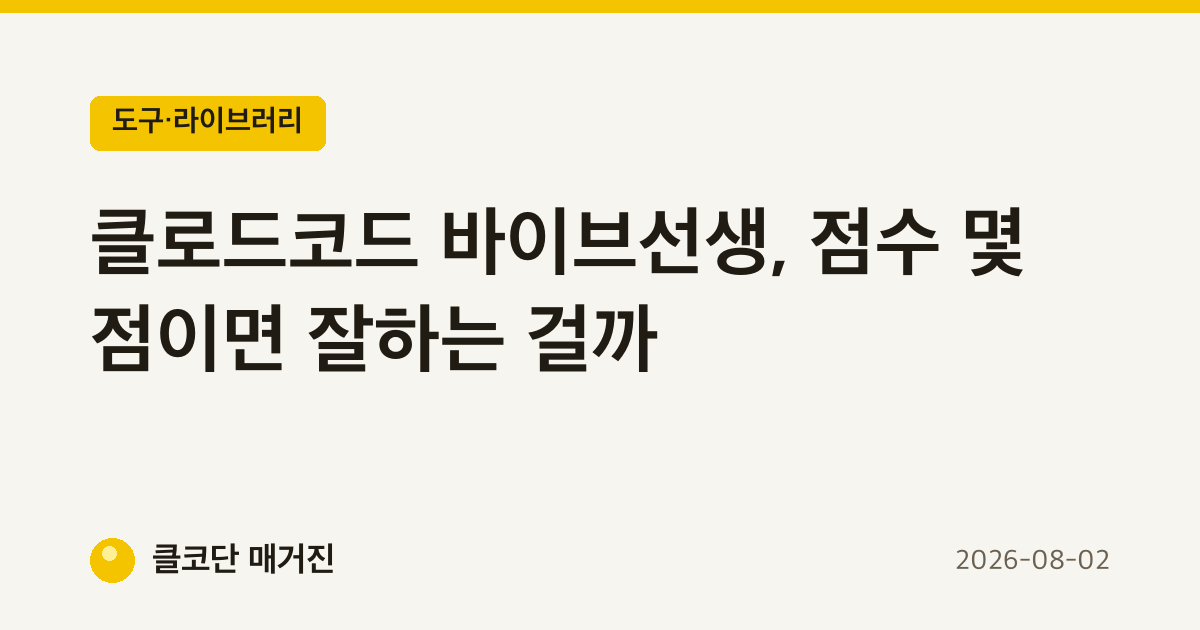
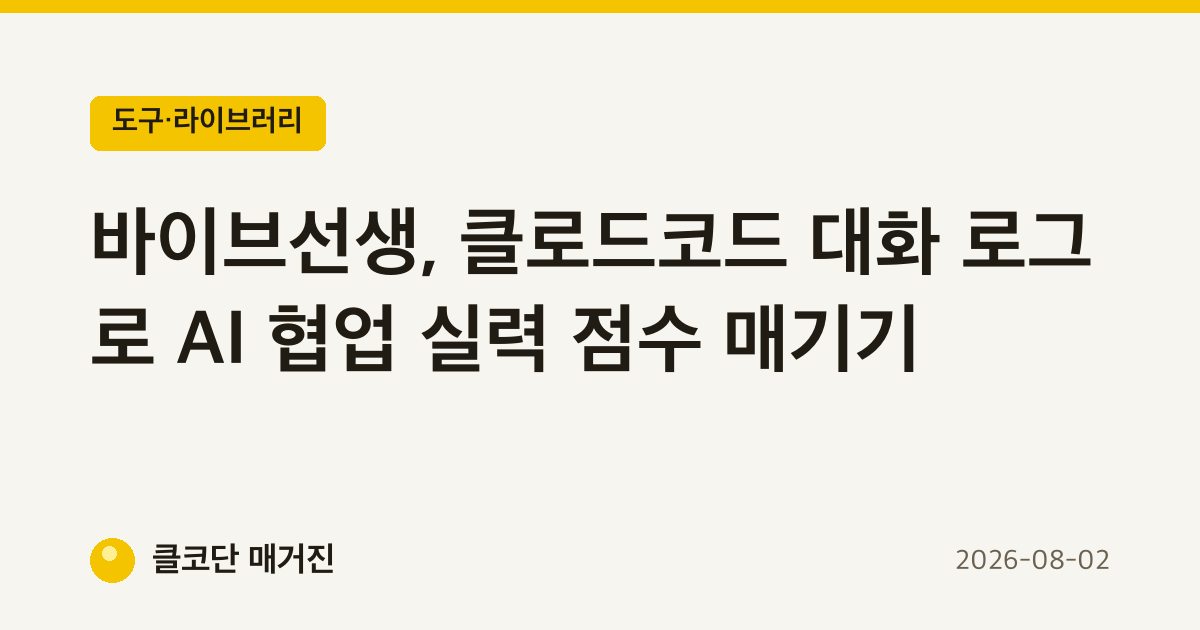
매거진 재정의 — 리서치 기반 완전 기사 + humanize + 히어로 이미지(첫 기사)

Changed region(s): [[0.0617, 0.4825, 0.7708, 0.6032], [0.0617, 0.3317, 0.6475, 0.4524], [0.6783, 0.3317, 0.925, 0.4524]]

diff --git a/mag/tools/vibe-sunsang-claude-code-score.html b/mag/tools/vibe-sunsang-claude-code-score.html
@@ -3,17 +3,17 @@
 <head>
 <meta charset="utf-8">
 <meta name="viewport" content="width=device-width, initial-scale=1">
-<title>클로드코드 바이브선생, 점수 몇 점이면 잘하는 걸까 — 클코단 매거진</title>
+<title>바이브선생, 클로드코드 대화 로그로 AI 협업 실력 점수 매기기 — 클코단 매거진</title>
 <link rel="icon" type="image/svg+xml" href="/favicon.svg"><link rel="icon" type="image/png" sizes="32x32" href="/favicon-32.png"><link rel="apple-touch-icon" href="/apple-touch-icon.png">
 <script async src="https://www.googletagmanager.com/gtag/js?id=G-STD1JBGG3R"></script><script>window.dataLayer=window.dataLayer||[];function gtag(){dataLayer.push(arguments)}gtag("js",new Date());gtag("config","G-STD1JBGG3R");</script>
-<meta name="description" content="클로드코드 대화 세션을 분석해 점수를 매기는 자가진단 도구 &#x27;바이브선생&#x27;. 평균 점수와 평가 항목, 실행 방법과 커뮤니티에서 나온 갈린 의견을 정리했다.">
+<meta name="description" content="클로드코드 세션 로그를 6축(DECOMP·VERIFY·ORCH·FAIL·CTX·META)·7레벨 체계로 채점하는 오픈소스 도구 바이브선생의 설치법과 평가 기준, 점수보다 실무 활용도가 중요하다는 커뮤니티 반응을 정리했다.">
 <link rel="canonical" href="https://chat.axwith.com/mag/tools/vibe-sunsang-claude-code-score.html">
-<meta property="og:title" content="클로드코드 바이브선생, 점수 몇 점이면 잘하는 걸까">
-<meta property="og:description" content="클로드코드 대화 세션을 분석해 점수를 매기는 자가진단 도구 &#x27;바이브선생&#x27;. 평균 점수와 평가 항목, 실행 방법과 커뮤니티에서 나온 갈린 의견을 정리했다.">
+<meta property="og:title" content="바이브선생, 클로드코드 대화 로그로 AI 협업 실력 점수 매기기">
+<meta property="og:description" content="클로드코드 세션 로그를 6축(DECOMP·VERIFY·ORCH·FAIL·CTX·META)·7레벨 체계로 채점하는 오픈소스 도구 바이브선생의 설치법과 평가 기준, 점수보다 실무 활용도가 중요하다는 커뮤니티 반응을 정리했다.">
 <meta property="og:type" content="article">
 <meta property="og:url" content="https://chat.axwith.com/mag/tools/vibe-sunsang-claude-code-score.html">
-<script type="application/ld+json">{"@context": "https://schema.org", "@type": "Article", "headline": "클로드코드 바이브선생, 점수 몇 점이면 잘하는 걸까", "description": "클로드코드 대화 세션을 분석해 점수를 매기는 자가진단 도구 '바이브선생'. 평균 점수와 평가 항목, 실행 방법과 커뮤니티에서 나온 갈린 의견을 정리했다.", "datePublished": "2026-08-02", "dateModified": "2026-08-02", "author": {"@type": "Organization", "name": "클코단 매거진"}, "publisher": {"@type": "Organization", "name": "클코단 매거진"}, "mainEntityOfPage": {"@type": "WebPage", "@id": "https://chat.axwith.com/mag/tools/vibe-sunsang-claude-code-score.html"}, "articleSection": "도구·라이브러리", "keywords": "클로드코드, 바이브선생, gptaku, 세션평가, 바이브코딩, 프롬프트습관"}</script>
-<script type="application/ld+json">{"@context": "https://schema.org", "@type": "FAQPage", "mainEntity": [{"@type": "Question", "name": "바이브선생이 정확히 뭔가요?", "acceptedAnswer": {"@type": "Answer", "text": "fivetaku가 만든 오픈소스 자가진단 도구이자 gptaku 플러그인의 세션 평가 기능이다. 클로드코드와 나눈 대화 세션을 분석해 시작·평가·멘토링·성장 네 항목으로 점수를 매긴다."}}, {"@type": "Question", "name": "평균 점수는 몇 점인가요?", "acceptedAnswer": {"@type": "Answer", "text": "커뮤니티에서 언급된 평균은 6.3점이며, 잘하는 사람은 7점대가 나온다는 이야기가 있었다. 다만 점수보다 실무 활용도가 더 중요하다는 의견도 함께 나왔다."}}, {"@type": "Question", "name": "GPT 대화 세션도 분석되나요?", "acceptedAnswer": {"@type": "Answer", "text": "아니다. 지금까지는 클로드코드 세션만 가져와 분석하며, GPT 대화 세션은 가져오지 못한다는 설명이 있었다."}}, {"@type": "Question", "name": "바이브선생은 어떻게 실행하나요?", "acceptedAnswer": {"@type": "Answer", "text": "터미널에서 \"바이브선생 실행해줘\"라고 말하면 알아서 설치·실행됐다는 공유가 있었다."}}]}</script>
+<script type="application/ld+json">{"@context": "https://schema.org", "@type": "Article", "headline": "바이브선생, 클로드코드 대화 로그로 AI 협업 실력 점수 매기기", "description": "클로드코드 세션 로그를 6축(DECOMP·VERIFY·ORCH·FAIL·CTX·META)·7레벨 체계로 채점하는 오픈소스 도구 바이브선생의 설치법과 평가 기준, 점수보다 실무 활용도가 중요하다는 커뮤니티 반응을 정리했다.", "datePublished": "2026-08-02", "dateModified": "2026-08-02", "author": {"@type": "Organization", "name": "클코단 매거진"}, "publisher": {"@type": "Organization", "name": "클코단 매거진"}, "mainEntityOfPage": {"@type": "WebPage", "@id": "https://chat.axwith.com/mag/tools/vibe-sunsang-claude-code-score.html"}, "articleSection": "도구·라이브러리", "keywords": "바이브선생, 클로드코드, vibe coding, Claude Code 플러그인, AI 협업 평가, 가재코드"}</script>
+<script type="application/ld+json">{"@context": "https://schema.org", "@type": "FAQPage", "mainEntity": [{"@type": "Question", "name": "바이브선생은 어떻게 설치하나요?", "acceptedAnswer": {"@type": "Answer", "text": "클로드코드에서 `/plugin marketplace add https://github.com/fivetaku/gptaku_plugins.git`으로 마켓플레이스를 추가한 뒤 `/plugin install vibe-sunsang`으로 설치한다. 별도 API 키 없이 기존 클로드코드 대화 로그만으로 동작한다."}}, {"@type": "Question", "name": "바이브선생 평가 항목과 점수 체계는 어떻게 구성되나요?", "acceptedAnswer": {"@type": "Answer", "text": "DECOMP(작업 분해)·VERIFY(검증)·ORCH(오케스트레이션)·FAIL(실패 복구)·CTX(맥락 관리)·META(메타인지) 6축을 종합해 L1.0부터 L7.0까지 0.5 단위 레벨을 매긴다. 상위 레벨은 검증 비율, 도구 다양성 등 별도 게이트 조건을 충족해야 올라간다."}}, {"@type": "Question", "name": "바이브선생은 GPT 등 다른 AI 대화 세션도 분석할 수 있나요?", "acceptedAnswer": {"@type": "Answer", "text": "아니다. 클로드코드가 로컬에 남기는 JSONL 세션 로그만 분석 대상이며, GPT 등 다른 서비스의 대화 세션은 가져올 수 없다."}}]}</script>
 <style>:root{--ground:#F7F5EF;--surface:#FFFFFF;--line:#E3DECF;--ink:#201C13;--muted:#6B6152;--accent:#F5C400;--on-accent:#201C13;--accent-deep:#7A6200;--shadow:0 1px 2px rgba(32,28,19,.05),0 6px 18px rgba(32,28,19,.06);--chip-bg:#F2EBD4;}
 @media (prefers-color-scheme: dark){:root{--ground:#17140F;--surface:#211C13;--line:#37301F;--ink:#EFE8D8;--muted:#ADA189;--accent:#FBDA30;--on-accent:#201C13;--accent-deep:#FBDA30;--shadow:0 1px 2px rgba(0,0,0,.5),0 8px 22px rgba(0,0,0,.35);--chip-bg:#2C2617;}}
 :root[data-theme="dark"]{--ground:#17140F;--surface:#211C13;--line:#37301F;--ink:#EFE8D8;--muted:#ADA189;--accent:#FBDA30;--on-accent:#201C13;--accent-deep:#FBDA30;--shadow:0 1px 2px rgba(0,0,0,.5),0 8px 22px rgba(0,0,0,.35);--chip-bg:#2C2617;}
@@ -136,6 +136,7 @@ font-size:15px;font-weight:700;box-shadow:var(--shadow)}
 .wkbanner span{color:var(--accent-deep)}
 
 .artbody{margin-top:22px}
+.artHero{width:100%;border-radius:12px;margin:16px 0 4px;display:block;border:1px solid var(--line)}
 .artbody h2{font-size:19px;font-weight:800;letter-spacing:-.01em;margin:28px 0 10px}
 .artbody p{margin:13px 0;line-height:1.78}
 .artbody ul{margin:13px 0 13px 18px}.artbody li{margin:6px 0;line-height:1.7}
@@ -145,20 +146,28 @@ font-size:15px;font-weight:700;box-shadow:var(--shadow)}
 <body>
 <div class="wrap">
 <nav><a href="../">&larr; 클코단 매거진</a></nav>
+<img class="artHero" src="https://chat.axwith.com/mag/hero/vibe-sunsang-claude-code-score.png" alt="바이브선생, 클로드코드 대화 로그로 AI 협업 실력 점수 매기기" loading="eager">
 <header>
   <div class="eyebrow">도구·라이브러리</div>
-  <h1>클로드코드 바이브선생, 점수 몇 점이면 잘하는 걸까</h1>
-  <p class="sub">gptaku 플러그인의 세션 자가진단 기능 &#x27;바이브선생&#x27;, 평균 점수와 실제로 봐야 할 지표를 정리했다</p>
+  <h1>바이브선생, 클로드코드 대화 로그로 AI 협업 실력 점수 매기기</h1>
+  <p class="sub">클로드코드 세션 로그를 6축·7레벨로 채점하는 오픈소스 멘토링 도구, 점수보다 실무 활용도가 관건이라는 의견이 방 안팎에서 나왔다</p>
   <div class="meta"><span>2026-08-02</span><span>논의 <b>2</b>회 정리</span></div>
 </header>
-<div class="artbody"><h2>문제: 내 프롬프트, 잘 쓰고 있는 걸까</h2>
-<p>클로드코드로 매일 작업은 하지만 스스로 습관을 점검할 방법은 마땅치 않다. 오픈채팅방에서는 gptaku 플러그인을 쓴 뒤 에이전트 결과물이 탄탄해지고 자가진단 점수(일명 &#x27;바선생&#x27; 점수)가 올랐다는 후기가 나오면서, 이 점수를 어떻게 봐야 하는지 논의가 이어졌다.</p>
-<h2>바이브선생은 무엇을 보나</h2>
-<p>바이브선생은 fivetaku가 만든 오픈소스 자가진단 도구로, gptaku 플러그인의 세션 평가 기능이다. 지금까지 클로드코드와 나눈 대화 세션을 가져와 시작·평가·멘토링·성장 네 항목으로 주 단위 점검을 해준다. 다만 GPT 대화 세션은 가져오지 못하고 클로드코드 세션만 분석 대상이라는 설명이 있었다. 터미널에 &quot;바이브선생 실행해줘&quot;라고만 말해도 알아서 설치·실행된다는 공유도 있었다.</p>
-<h2>몇 점이면 잘하는 걸까 — 갈린 의견</h2>
-<p>평균은 6.3점, 잘하는 사람은 7점대가 나온다는 언급이 있었지만, 점수가 높다고 실제로 잘 쓰는 건 아니라는 의견도 나왔다. 결국 중요한 건 점수 자체보다 실무에 얼마나 써먹는지, 그리고 꾸준히 실습하는 태도라는 조언이 이어졌다. 한 참가자는 클로드·코덱스·가재코드 세션 로그를 월별로 분석해 안티패턴과 프롬프트 글자수, 연속 작업시간 등을 직접 체크하는 자체 파일까지 만들어 공유하기도 했다.</p></div>
-<div class="chips"><span class="chip">클로드코드</span><span class="chip">바이브선생</span><span class="chip">gptaku</span><span class="chip">세션평가</span><span class="chip">바이브코딩</span><span class="chip">프롬프트습관</span></div>
-<h2 class="secttl">자주 묻는 질문</h2><div class="details"><article class="dcard"><div class="t">Q</div><h2>바이브선생이 정확히 뭔가요?</h2><p class="sum">fivetaku가 만든 오픈소스 자가진단 도구이자 gptaku 플러그인의 세션 평가 기능이다. 클로드코드와 나눈 대화 세션을 분석해 시작·평가·멘토링·성장 네 항목으로 점수를 매긴다.</p></article><article class="dcard"><div class="t">Q</div><h2>평균 점수는 몇 점인가요?</h2><p class="sum">커뮤니티에서 언급된 평균은 6.3점이며, 잘하는 사람은 7점대가 나온다는 이야기가 있었다. 다만 점수보다 실무 활용도가 더 중요하다는 의견도 함께 나왔다.</p></article><article class="dcard"><div class="t">Q</div><h2>GPT 대화 세션도 분석되나요?</h2><p class="sum">아니다. 지금까지는 클로드코드 세션만 가져와 분석하며, GPT 대화 세션은 가져오지 못한다는 설명이 있었다.</p></article><article class="dcard"><div class="t">Q</div><h2>바이브선생은 어떻게 실행하나요?</h2><p class="sum">터미널에서 &quot;바이브선생 실행해줘&quot;라고 말하면 알아서 설치·실행됐다는 공유가 있었다.</p></article></div>
+<div class="artbody"><p>클로드코드로 하루 몇 시간씩 대화하면서도 &quot;내가 잘 쓰고 있는 건가&quot;라는 질문에 답하기는 쉽지 않다. 최근 클코단 오픈채팅방에서는 자신의 클로드코드 사용 습관을 점수로 되돌려주는 오픈소스 도구 &#x27;바이브선생&#x27;이 화제였다. gptaku 플러그인을 쓰고 나서 점수가 올랐다는 후기부터 &quot;6.3점이면 잘하는 건가&quot;라는 질문까지 이어졌는데, 점수 자체보다 그 점수가 실제 업무 역량과 어떻게 연결되는지가 더 중요한 논쟁거리였다.</p>
+<h2>바이브선생은 무엇을 하는 도구인가</h2>
+<p>바이브선생(vibe-sunsang)은 fivetaku가 만들어 GitHub에 공개한 오픈소스 프로젝트로, 클로드코드가 로컬에 남기는 JSONL 세션 로그를 읽어 사용자의 AI 협업 습관을 자동으로 분석해주는 멘토링 에이전트다. 별도 API 키나 외부 서버 없이 기존 클로드코드 대화 기록만으로 동작하는 것이 특징이다. 설치는 클로드코드의 플러그인 마켓플레이스 기능을 통해 이뤄진다. `/plugin marketplace add https://github.com/fivetaku/gptaku_plugins.git`로 fivetaku가 운영하는 gptaku_plugins 마켓플레이스를 추가한 뒤 `/plugin install vibe-sunsang`으로 설치하면 된다. 방 논의에서 한 참가자가 터미널에 &quot;바이브선생 실행해줘&quot;라고만 말했더니 알아서 설치와 실행까지 이어졌다고 공유한 것도 이 구조 덕분이다. 클로드코드 플러그인은 슬래시 명령, 서브에이전트, MCP 서버, 훅을 하나로 묶어 배포하는 기능으로 2025년 10월 베타로 처음 공개됐고 2026년 5월에는 앤스로픽이 공식 플러그인 디렉터리까지 열면서 생태계가 빠르게 커지고 있다. gptaku_plugins는 이 공식 마켓플레이스와는 별개로 운영되는 커뮤니티 마켓플레이스로, 바이브선생 외에도 검색 우회 도구 insane-search, 디자인 시스템 추출기 insane-design 등을 함께 배포한다.</p>
+<h2>6축 평가와 레벨, 게이트 조건</h2>
+<p>바이브선생의 핵심은 대화 로그를 여섯 개 축으로 나눠 채점하는 방식이다. 복잡한 요청을 AI가 처리할 수 있는 단위로 쪼개는 능력(DECOMP), AI 출력물을 비판적으로 검증하는 습관(VERIFY), 여러 도구·에이전트·워크플로우를 엮어 쓰는 오케스트레이션(ORCH), 오류가 났을 때 원인을 진단하고 대안을 찾는 실패 복구(FAIL), 배경·제약·목표를 AI에 충분히 전달하는 맥락 관리(CTX), 그리고 스스로의 AI 사용 패턴을 인식하고 전략을 조정하는 메타인지(META)다. 이 여섯 축을 종합해 L1.0부터 L7.0까지 0.5 단위로 레벨을 매기는데, 상위 레벨로 올라가려면 단순히 점수 평균을 넘기는 게 아니라 정해진 게이트 조건을 충족해야 한다. 예컨대 L4로 가려면 검증 비율이 0.15를 넘고 수정 비율도 0.05를 넘어야 하고 L5는 사용 도구의 다양성이 8종을 넘어야 하며 L6는 다중 에이전트 협업 경험이, L7은 여기에 더해 외부 기여 이력까지 요구한다. 평가는 사용자가 주로 어떤 유형의 작업을 하는지에 따라 가중치도 달리 준다. 빌더형은 DECOMP·VERIFY를, 디자이너형은 CTX·ORCH를 더 비중 있게 본다. 권장 루틴은 매주 금요일 15분씩 로그를 변환해 멘토링을 받고 한 달에 한 번 30분을 들여 전체 성장 리포트를 뽑아 이전 달과 비교하는 방식이다.</p>
+<h2>방 안 반응: 점수보다 실무 활용도</h2>
+<p>방 논의에서 가장 먼저 나온 것은 실사용 후기였다. gptaku 플러그인을 쓰고 나서 에이전트 결과물이 더 탄탄해졌고 바이브선생 점수도 올랐다는 공유였다. 자연스럽게 &quot;평균이 얼마나 되느냐&quot;, &quot;6점대면 잘하는 편이냐&quot;는 질문이 이어졌고 상세 재평가를 요청했더니 6점대가 나왔다는 공유도 있었다. 이 지점에서 나온 의견은 점수가 잘 나온다고 해서 실제로 업무에 AI를 잘 활용하고 있다는 뜻은 아니라는 것이었다. 결국 중요한 건 채점표의 숫자가 아니라 그 결과를 실무에 얼마나 써먹을 수 있는지라는 지적이 많았다. 평가 항목을 시작·평가·멘토링·성장 네 단계로 요약하고 주 단위로 점검한다고 정리한 참가자도 있었고 점수보다 꾸준히 실습하며 스레드에서 나온 조언을 따라 해보는 태도가 더 중요하다는 의견도 나왔다. 다만 클로드코드 세션만 분석 대상이 되고 GPT 등 다른 서비스의 대화 세션은 가져올 수 없다는 한계도 함께 공유됐다.</p>
+<h2>세션 로그 분석, 혼자만의 시도가 아니다</h2>
+<p>한 참가자는 바이브선생과 별개로 클로드코드·코덱스·가재코드(GJC) 세션 로그를 월별로 직접 분석하는 자체 파일을 만들어 안티패턴, 프롬프트 글자수, 연속 작업시간 등을 체크하고 있다고 소개했다. 이는 개인 취미를 넘어 하나의 흐름과 맞닿아 있다. 클로드코드는 대화 내용을 `~/.claude/projects/` 아래 JSONL 형식으로 한 줄씩 이어 붙여 저장하는데, 이 포맷을 읽어 생각 깊이나 Read·Edit 비율, 감정·비용까지 정량화하는 claude-session-analyzer, 로그를 마크다운·HTML로 바꿔주는 claude-code-log, 로그를 브라우저에서 바로 훑어볼 수 있는 claude-code-trace 같은 도구들이 이미 여럿 나와 있다. 세션 로그를 다루는 CLI 도구도 늘었다. 방에서 언급된 가재코드(Gajae Code, GJC)는 bellman.pub이 만든 외부 코딩 에이전트 하니스로, 클로드코드나 코덱스 CLI 옆에서 구조화된 계획과 지속적인 증거 관리, 격리된 작업 트리를 지원하는 도구로 소개돼 있다. 클로드코드·코덱스 CLI·제미나이 CLI에 이어 가재코드까지, 한 사람이 여러 AI 코딩 CLI를 동시에 쓰며 그 흔적을 직접 분석하는 게 특별한 일이 아니게 된 셈이다.</p>
+<h2>바이브코딩의 맥락과 &#x27;AI 리터러시&#x27; 평가</h2>
+<p>바이브선생류 도구가 등장한 배경에는 &#x27;바이브코딩&#x27;이라는 용어 자체의 확산이 있다. 2025년 2월 앤드리 카패시가 &quot;바이브에 완전히 몸을 맡기고 코드가 존재한다는 사실조차 잊는&quot; 새로운 코딩 방식이라고 정의하며 퍼뜨린 말로, 개발자가 직접 문법을 타이핑하는 대신 자연어로 의도를 전달하고 AI가 구현을 맡는 흐름을 가리킨다. 이 개념이 널리 쓰이면서 업계에서는 &#x27;무엇을 만들었는가&#x27;보다 &#x27;어떻게 AI와 협업했는가&#x27;가 개발자 역량을 가르는 기준이라는 시각이 힘을 얻고 있다. 실제로 채용 현장에서도 AI 도구를 얼마나 효과적으로 다루는지, 즉 AI 리터러시를 평가 지표로 삼는 사례가 늘고 있다는 분석이 나온다. 바이브선생이 &quot;무엇을 만들었는가가 아니라 어떻게 만들었는가&quot;를 표방하며 요청 분해·검증·오케스트레이션·메타인지 같은 축을 자동 채점하는 것도 이런 흐름과 맞닿아 있다. 다만 카패시 본인조차 이후 진지한 프로젝트에서는 바이브코딩의 한계를 인정한 바 있어, 점수화된 자가진단 도구 역시 절대적인 실력 지표라기보다 스스로의 습관을 되돌아보는 참고 자료로 받아들이는 편이 합리적이라는 신중론도 함께 짚어볼 만하다.</p>
+<h2>정리</h2>
+<p>바이브선생은 클로드코드 대화 로그만으로 AI 협업 습관을 6축·7레벨 체계로 채점해주는 오픈소스 멘토링 도구로, 방에서는 실제로 점수가 올랐다는 후기와 함께 &quot;숫자보다 실무 활용도가 우선&quot;이라는 신중론이 공존했다. 세션 로그를 분석해 성장을 추적하려는 시도는 바이브선생 하나에 그치지 않고, 클로드코드·코덱스·가재코드 등 여러 CLI 도구의 로그를 직접 파고드는 커뮤니티 자체 도구로도 번지고 있다. 결국 관건은 채점표의 숫자보다 그 피드백을 다음 세션에서 실제로 고쳐 써먹느냐에 달려 있다는 것이 방 안팎의 공통된 결론이었다.</p></div>
+<div class="chips"><span class="chip">바이브선생</span><span class="chip">클로드코드</span><span class="chip">vibe coding</span><span class="chip">Claude Code 플러그인</span><span class="chip">AI 협업 평가</span><span class="chip">가재코드</span></div>
+<h2 class="secttl">자주 묻는 질문</h2><div class="details"><article class="dcard"><div class="t">Q</div><h2>바이브선생은 어떻게 설치하나요?</h2><p class="sum">클로드코드에서 `/plugin marketplace add https://github.com/fivetaku/gptaku_plugins.git`으로 마켓플레이스를 추가한 뒤 `/plugin install vibe-sunsang`으로 설치한다. 별도 API 키 없이 기존 클로드코드 대화 로그만으로 동작한다.</p></article><article class="dcard"><div class="t">Q</div><h2>바이브선생 평가 항목과 점수 체계는 어떻게 구성되나요?</h2><p class="sum">DECOMP(작업 분해)·VERIFY(검증)·ORCH(오케스트레이션)·FAIL(실패 복구)·CTX(맥락 관리)·META(메타인지) 6축을 종합해 L1.0부터 L7.0까지 0.5 단위 레벨을 매긴다. 상위 레벨은 검증 비율, 도구 다양성 등 별도 게이트 조건을 충족해야 올라간다.</p></article><article class="dcard"><div class="t">Q</div><h2>바이브선생은 GPT 등 다른 AI 대화 세션도 분석할 수 있나요?</h2><p class="sum">아니다. 클로드코드가 로컬에 남기는 JSONL 세션 로그만 분석 대상이며, GPT 등 다른 서비스의 대화 세션은 가져올 수 없다.</p></article></div>
 
 <footer><span>원 아카이브: <a href="../../s/2026-08-01-1800.html">2026-08-01 08-01 13:32~17:43</a> · <a href="../../s/2026-08-02-0900.html">2026-08-02 08-01 20:37~08-02 08:18</a></span><span><a href="../">&larr; 매거진</a> · <a href="../../">아카이브</a></span></footer>
 </div>

diff --git a/mag/index.html b/mag/index.html
@@ -136,10 +136,10 @@ font-size:15px;font-weight:700;box-shadow:var(--shadow)}
   <p class="sub">방에서 오간 논의를 주제별로 정리한 기사 모음입니다.</p>
 </header>
 <nav class="tabs"><a href="../">대화 요약</a><a href="../repos/">공유된 레포</a><a href="../weekly/">주간 정리</a><a class="on" href="../mag/">매거진</a></nav>
-<section class="hero"><div class="fresh">도구·라이브러리 · 2026-08-02</div><h2><a href="tools/vibe-sunsang-claude-code-score.html">클로드코드 바이브선생, 점수 몇 점이면 잘하는 걸까</a></h2><div class="hmeta">gptaku 플러그인의 세션 자가진단 기능 &#x27;바이브선생&#x27;, 평균 점수와 실제로 봐야 할 지표를 정리했다</div></section>
-<div id="browse"><section class="dategroup"><article class="entry"><div class="slot">질문</div><div><h3><a href="troubleshooting/coupang-smartstore-scraping-block.html">쿠팡·스마트스토어 크롤링이 자꾸 막히는 이유와 우회법</a></h3><div class="emeta">2026-07-30 · 논의 1회</div><div class="chips"><span class="chip">질문·트러블슈팅</span><span class="chip">클로드코드</span><span class="chip">크롤링</span></div></div></article><article class="entry"><div class="slot">질문</div><div><h3><a href="troubleshooting/claude-code-file-delete-safety.html">클로드코드가 파일을 지웠다면, 되돌릴 방법은 있을까</a></h3><div class="emeta">2026-07-29 · 논의 1회</div><div class="chips"><span class="chip">질문·트러블슈팅</span><span class="chip">클로드코드</span><span class="chip">파일 삭제 사고</span></div></div></article></section>
-<div class="months"><h2>주제별 보기</h2><a href="tools/">도구·라이브러리 1</a><a href="troubleshooting/">질문·트러블슈팅 2</a></div></div>
-<footer>클코단 오픈채팅 논의를 정리한 기사 3건. 개별 발화와 닉네임은 담지 않습니다.</footer>
+<section class="hero"><div class="fresh">도구·라이브러리 · 2026-08-02</div><h2><a href="tools/vibe-sunsang-claude-code-score.html">바이브선생, 클로드코드 대화 로그로 AI 협업 실력 점수 매기기</a></h2><div class="hmeta">클로드코드 세션 로그를 6축·7레벨로 채점하는 오픈소스 멘토링 도구, 점수보다 실무 활용도가 관건이라는 의견이 방 안팎에서 나왔다</div></section>
+<div id="browse"><section class="dategroup"></section>
+<div class="months"><h2>주제별 보기</h2><a href="tools/">도구·라이브러리 1</a></div></div>
+<footer>클코단 오픈채팅 논의를 정리한 기사 1건. 개별 발화와 닉네임은 담지 않습니다.</footer>
 </div>
 </body>
 </html>

diff --git a/mag/troubleshooting/index.html b/mag/troubleshooting/index.html
@@ -133,11 +133,11 @@ font-size:15px;font-weight:700;box-shadow:var(--shadow)}
 <header>
   <span class="mark">클코단 매거진</span>
   <h1>질문·트러블슈팅</h1>
-  <p class="sub">이 주제로 방에서 오간 논의를 정리한 기사 2건.</p>
+  <p class="sub">이 주제로 방에서 오간 논의를 정리한 기사 0건.</p>
 </header>
 <nav class="tabs"><a href="../../">대화 요약</a><a href="../../repos/">공유된 레포</a><a href="../../weekly/">주간 정리</a><a class="on" href="../../mag/">매거진</a></nav>
-<div id="browse"><section class="dategroup"><article class="entry"><div class="slot">질문</div><div><h3><a href="../troubleshooting/coupang-smartstore-scraping-block.html">쿠팡·스마트스토어 크롤링이 자꾸 막히는 이유와 우회법</a></h3><div class="emeta">2026-07-30 · 논의 1회</div><div class="chips"><span class="chip">질문·트러블슈팅</span><span class="chip">클로드코드</span><span class="chip">크롤링</span></div></div></article><article class="entry"><div class="slot">질문</div><div><h3><a href="../troubleshooting/claude-code-file-delete-safety.html">클로드코드가 파일을 지웠다면, 되돌릴 방법은 있을까</a></h3><div class="emeta">2026-07-29 · 논의 1회</div><div class="chips"><span class="chip">질문·트러블슈팅</span><span class="chip">클로드코드</span><span class="chip">파일 삭제 사고</span></div></div></article></section>
-<div class="months"><h2>주제별 보기</h2><a href="../tools/">도구·라이브러리 1</a><a href="../troubleshooting/">질문·트러블슈팅 2 ●</a></div></div>
+<div id="browse"><section class="dategroup"><p class="empty">아직 기사가 없어요.</p></section>
+<div class="months"><h2>주제별 보기</h2><a href="../tools/">도구·라이브러리 1</a></div></div>
 <footer><a href="../">매거진 전체</a> · <a href="../../">대화 아카이브</a></footer>
 </div>
 </body>

diff --git a/mag/tools/index.html b/mag/tools/index.html
@@ -136,8 +136,8 @@ font-size:15px;font-weight:700;box-shadow:var(--shadow)}
   <p class="sub">이 주제로 방에서 오간 논의를 정리한 기사 1건.</p>
 </header>
 <nav class="tabs"><a href="../../">대화 요약</a><a href="../../repos/">공유된 레포</a><a href="../../weekly/">주간 정리</a><a class="on" href="../../mag/">매거진</a></nav>
-<div id="browse"><section class="dategroup"><article class="entry"><div class="slot">도구</div><div><h3><a href="../tools/vibe-sunsang-claude-code-score.html">클로드코드 바이브선생, 점수 몇 점이면 잘하는 걸까</a></h3><div class="emeta">2026-08-02 · 논의 2회</div><div class="chips"><span class="chip">도구·라이브러리</span><span class="chip">클로드코드</span><span class="chip">바이브선생</span></div></div></article></section>
-<div class="months"><h2>주제별 보기</h2><a href="../tools/">도구·라이브러리 1 ●</a><a href="../troubleshooting/">질문·트러블슈팅 2</a></div></div>
+<div id="browse"><section class="dategroup"><article class="entry"><div class="slot">도구</div><div><h3><a href="../tools/vibe-sunsang-claude-code-score.html">바이브선생, 클로드코드 대화 로그로 AI 협업 실력 점수 매기기</a></h3><div class="emeta">2026-08-02 · 논의 2회</div><div class="chips"><span class="chip">도구·라이브러리</span><span class="chip">바이브선생</span><span class="chip">클로드코드</span></div></div></article></section>
+<div class="months"><h2>주제별 보기</h2><a href="../tools/">도구·라이브러리 1 ●</a></div></div>
 <footer><a href="../">매거진 전체</a> · <a href="../../">대화 아카이브</a></footer>
 </div>
 </body>

diff --git a/mag/models/index.html b/mag/models/index.html
@@ -137,7 +137,7 @@ font-size:15px;font-weight:700;box-shadow:var(--shadow)}
 </header>
 <nav class="tabs"><a href="../../">대화 요약</a><a href="../../repos/">공유된 레포</a><a href="../../weekly/">주간 정리</a><a class="on" href="../../mag/">매거진</a></nav>
 <div id="browse"><section class="dategroup"><p class="empty">아직 기사가 없어요.</p></section>
-<div class="months"><h2>주제별 보기</h2><a href="../tools/">도구·라이브러리 1</a><a href="../troubleshooting/">질문·트러블슈팅 2</a></div></div>
+<div class="months"><h2>주제별 보기</h2><a href="../tools/">도구·라이브러리 1</a></div></div>
 <footer><a href="../">매거진 전체</a> · <a href="../../">대화 아카이브</a></footer>
 </div>
 </body>

diff --git a/mag/ops/index.html b/mag/ops/index.html
@@ -137,7 +137,7 @@ font-size:15px;font-weight:700;box-shadow:var(--shadow)}
 </header>
 <nav class="tabs"><a href="../../">대화 요약</a><a href="../../repos/">공유된 레포</a><a href="../../weekly/">주간 정리</a><a class="on" href="../../mag/">매거진</a></nav>
 <div id="browse"><section class="dategroup"><p class="empty">아직 기사가 없어요.</p></section>
-<div class="months"><h2>주제별 보기</h2><a href="../tools/">도구·라이브러리 1</a><a href="../troubleshooting/">질문·트러블슈팅 2</a></div></div>
+<div class="months"><h2>주제별 보기</h2><a href="../tools/">도구·라이브러리 1</a></div></div>
 <footer><a href="../">매거진 전체</a> · <a href="../../">대화 아카이브</a></footer>
 </div>
 </body>

diff --git a/mag/resources/index.html b/mag/resources/index.html
@@ -137,7 +137,7 @@ font-size:15px;font-weight:700;box-shadow:var(--shadow)}
 </header>
 <nav class="tabs"><a href="../../">대화 요약</a><a href="../../repos/">공유된 레포</a><a href="../../weekly/">주간 정리</a><a class="on" href="../../mag/">매거진</a></nav>
 <div id="browse"><section class="dategroup"><p class="empty">아직 기사가 없어요.</p></section>
-<div class="months"><h2>주제별 보기</h2><a href="../tools/">도구·라이브러리 1</a><a href="../troubleshooting/">질문·트러블슈팅 2</a></div></div>
+<div class="months"><h2>주제별 보기</h2><a href="../tools/">도구·라이브러리 1</a></div></div>
 <footer><a href="../">매거진 전체</a> · <a href="../../">대화 아카이브</a></footer>
 </div>
 </body>

diff --git a/mag/workflow/index.html b/mag/workflow/index.html
@@ -137,7 +137,7 @@ font-size:15px;font-weight:700;box-shadow:var(--shadow)}
 </header>
 <nav class="tabs"><a href="../../">대화 요약</a><a href="../../repos/">공유된 레포</a><a href="../../weekly/">주간 정리</a><a class="on" href="../../mag/">매거진</a></nav>
 <div id="browse"><section class="dategroup"><p class="empty">아직 기사가 없어요.</p></section>
-<div class="months"><h2>주제별 보기</h2><a href="../tools/">도구·라이브러리 1</a><a href="../troubleshooting/">질문·트러블슈팅 2</a></div></div>
+<div class="months"><h2>주제별 보기</h2><a href="../tools/">도구·라이브러리 1</a></div></div>
 <footer><a href="../">매거진 전체</a> · <a href="../../">대화 아카이브</a></footer>
 </div>
 </body>
